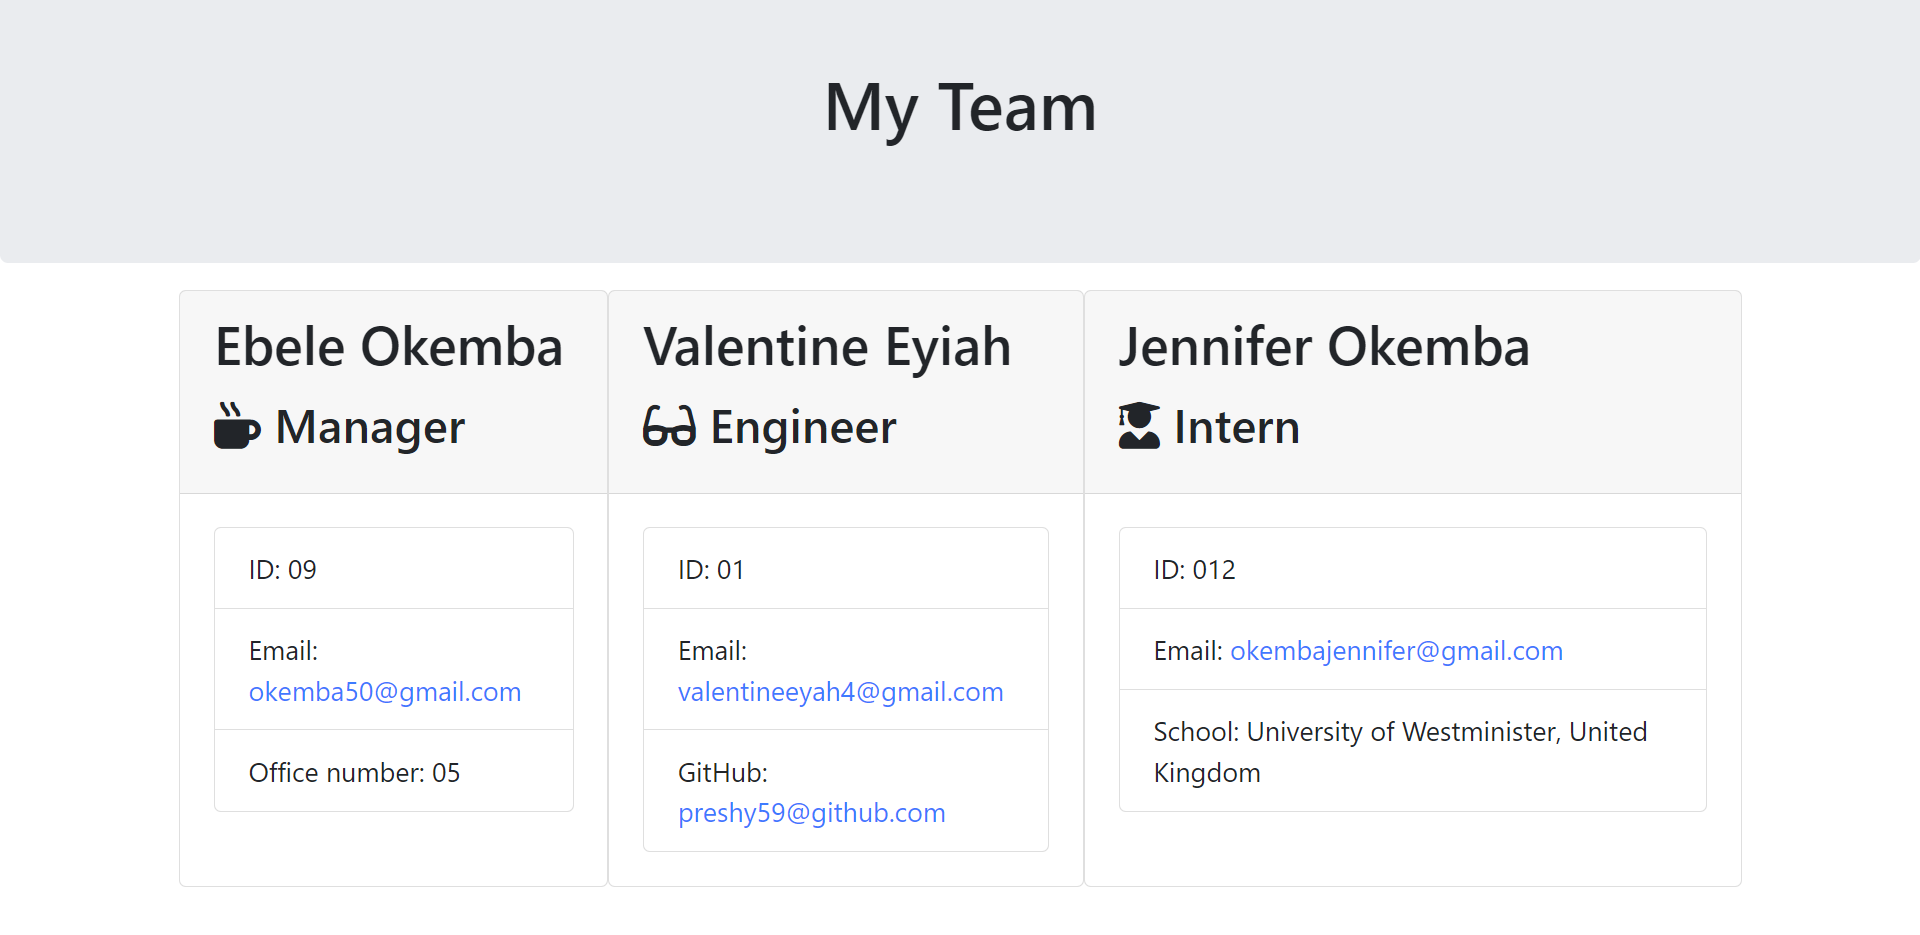
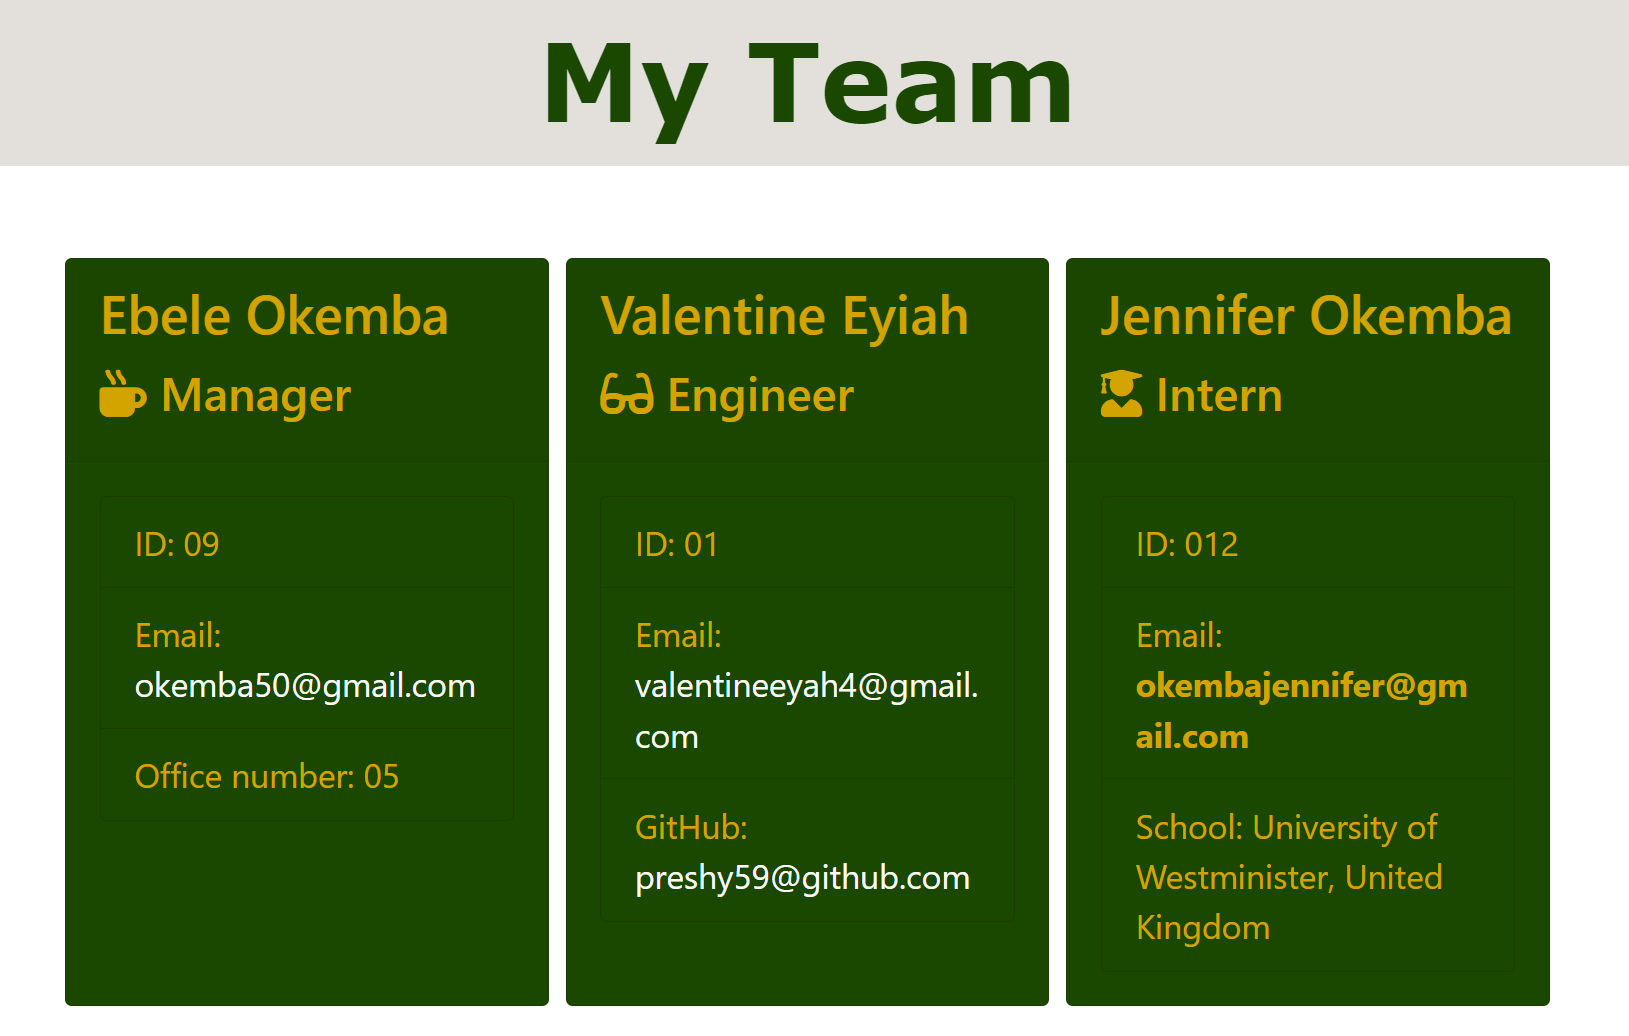
replace the image for the readme file and added some margin in teat-area class via css

diff --git a/output/css/style.css b/output/css/style.css
@@ -21,6 +21,7 @@
     display: flex;
     flex-direction: row;
     flex-wrap: wrap;
+    margin-top: 30px;
 }
 
 .list-group-item a {
@@ -36,6 +37,7 @@
 
 .container {
     background-color: white;
+    margin-top: 20px;
 }
 
 .team-heading {
